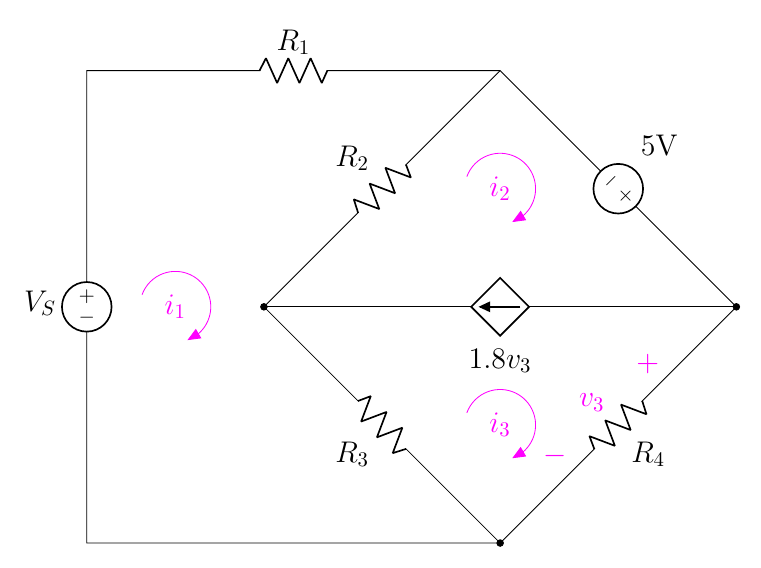
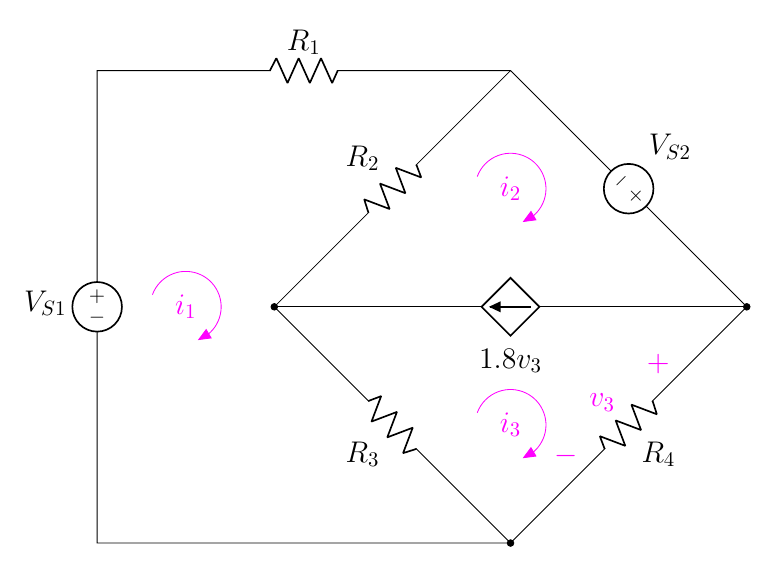
edit 4.49

diff --git a/1.6 Supermesh/4.4 The supermesh/4.49(new).tex b/1.6 Supermesh/4.4 The supermesh/4.49(new).tex
@@ -5,12 +5,12 @@
     % \draw(0,0) to[short] ++(0,8);
     \draw(0,0)  to[R,l=\rname{3}] ++(-4,4)
                 to[R,l=\rname{2}] ++(4,4)
-                to[V,l=$5\mathrm{V}$] ++(4,-4)
+                to[V,l= \vsname{2}] ++(4,-4)
                 to[R,l=\rname{4}] ++(-4,-4);
     \draw(4,4)  to[american controlled current source, l=$1.8v_3$,*-*] ++(-8,0);
 
     \draw(0,0) to[short,*-] ++(-7,0)
-                to[V,l=\vsname{}] ++(0,8)
+                to[V,l=\vsname{1}] ++(0,8)
                 to[R,l=\rname{1}] ++(7,0);
 
     %%% horizontal %%%
